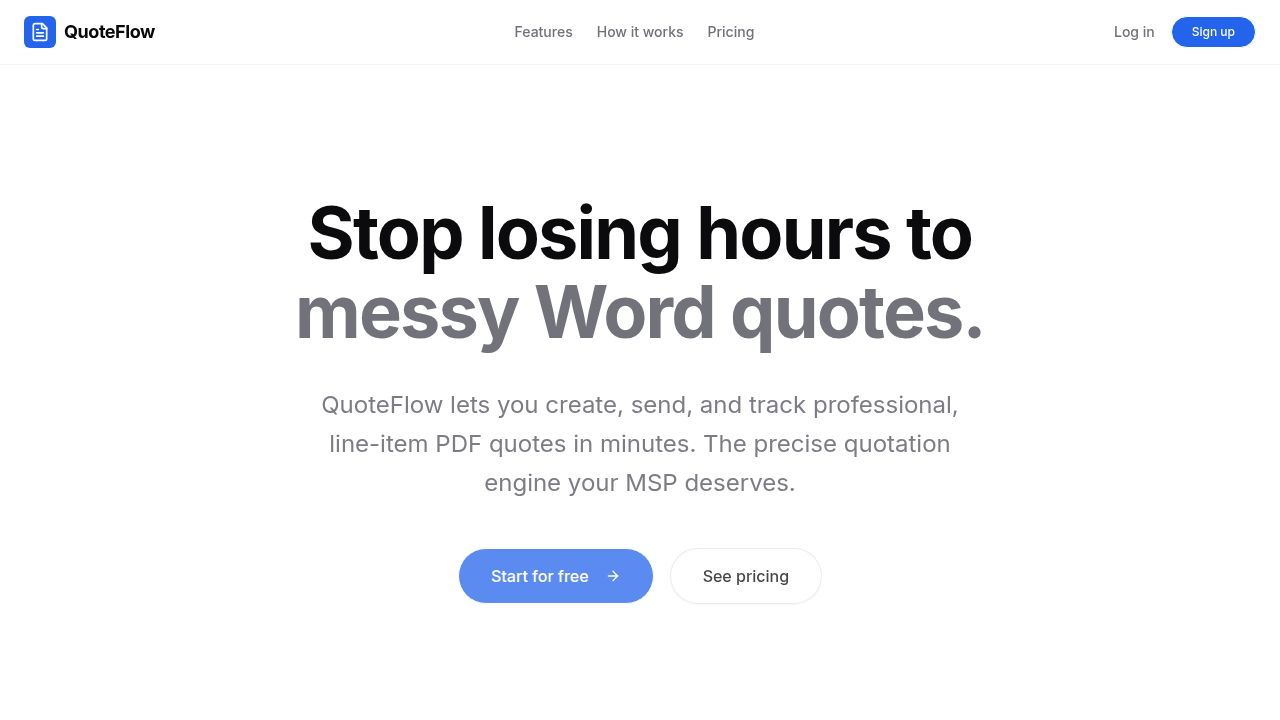
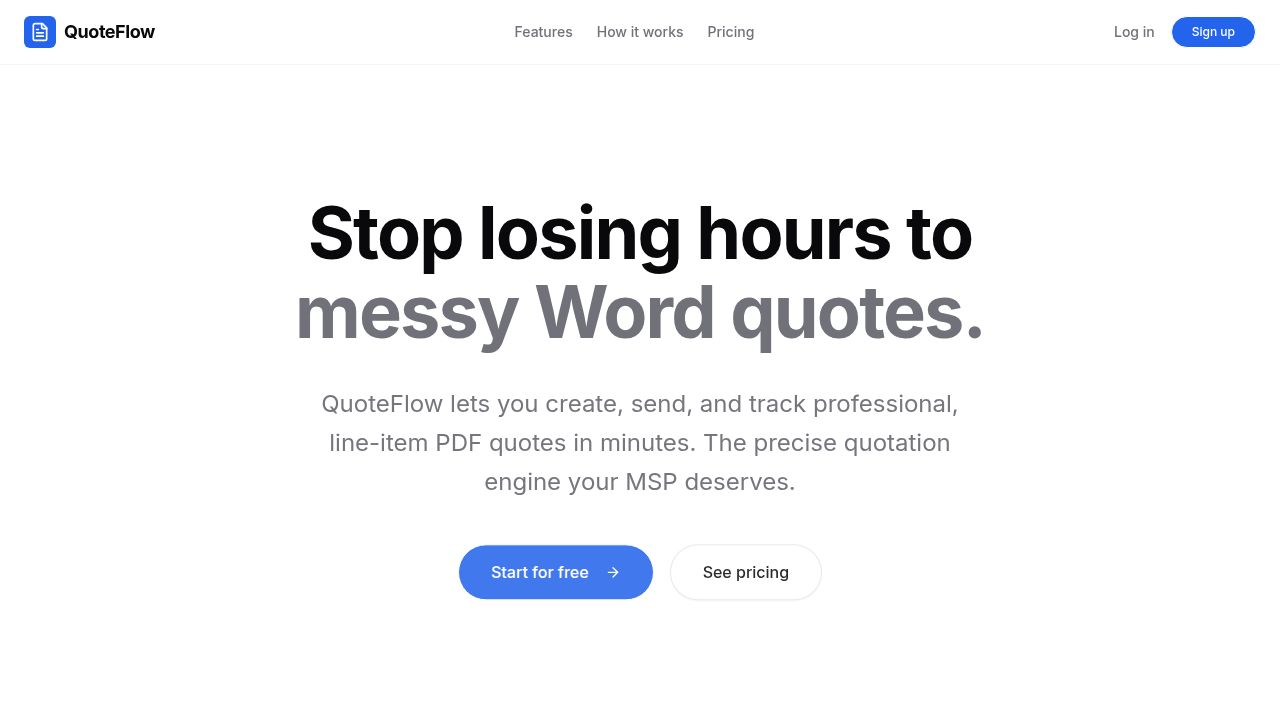
feat(task-15): Add SKU / product code to line items
Original task: Add an optional SKU field to quotation line items so IT service
providers can reference catalog part numbers, software license codes, or hardware
model numbers directly on a quote.

Changes made:
- lib/db/src/schema/quotations.ts: Added nullable `sku text` column to lineItemsTable
- lib/db: Applied schema change via `drizzle-kit push` (column added to live DB)
- lib/db: Rebuilt TypeScript declarations (dist/) to pick up new inferred type
- artifacts/api-server/src/lib/validation.ts: Added optional `sku` (max 100 chars) to lineItemSchema
- artifacts/api-server/src/routes/quotations.ts: Passed `sku` through in create, update, and duplicate handlers
- artifacts/api-server/src/lib/pdf/render.ts: Added `sku` to local LineItem type
- artifacts/api-server/src/lib/pdf/templates/types.ts: Added `sku?` to TemplateLineItem
- artifacts/api-server/src/lib/pdf/templates/modern.tsx: Renders "SKU: <code>" in 8pt muted text below description when present
- artifacts/api-server/src/lib/pdf/templates/classic.tsx: Same SKU rendering for classic template
- lib/api-client-react/src/generated/api.schemas.ts: Added `sku?` to LineItem and LineItemInput interfaces
- lib/api-client-react: Rebuilt TypeScript declarations
- artifacts/dashboard/src/pages/quotations/QuotationFormPage.tsx: Added small SKU input (h-6, xs text) below description in each line item row; preserved on edit load
[…]

diff --git a/artifacts/dashboard/src/pages/quotations/QuotationFormPage.tsx b/artifacts/dashboard/src/pages/quotations/QuotationFormPage.tsx
@@ -68,6 +68,7 @@ const thirtyDays = () => {
 };
 
 const emptyLineItem = (): LineItemInput => ({
+  sku: null,
   description: "",
   quantity: 1,
   unit: "hours",
@@ -134,6 +135,7 @@ export default function QuotationFormPage() {
     if (existing.lineItems && existing.lineItems.length > 0) {
       setLineItems(
         existing.lineItems.map((li, idx) => ({
+          sku: li.sku ?? null,
           description: li.description,
           quantity: parseFloat(li.quantity),
           unit: li.unit as LineItemInput["unit"],
@@ -321,13 +323,22 @@ export default function QuotationFormPage() {
             const rowTotal = (Number(li.quantity) || 0) * (Number(li.unitPrice) || 0);
             return (
               <div key={idx} className="grid grid-cols-[2.5fr_0.7fr_0.7fr_1fr_1fr_auto] gap-2 px-5 py-2.5 border-b border-slate-800/30 last:border-0 items-center">
-                <Input
-                  value={li.description}
-                  onChange={(e) => updateLineItem(idx, "description", e.target.value)}
-                  placeholder="Description..."
-                  className={`${inputCls} h-8 text-sm`}
-                  data-testid={`line-item-description-${idx}`}
-                />
+                <div className="flex flex-col gap-1">
+                  <Input
+                    value={li.description}
+                    onChange={(e) => updateLineItem(idx, "description", e.target.value)}
+                    placeholder="Description..."
+                    className={`${inputCls} h-8 text-sm`}
+                    data-testid={`line-item-description-${idx}`}
+                  />
+                  <Input
+                    value={li.sku ?? ""}
+                    onChange={(e) => updateLineItem(idx, "sku", e.target.value || null)}
+                    placeholder="SKU / Product code (optional)"
+                    className={`${inputCls} h-6 text-xs`}
+                    data-testid={`line-item-sku-${idx}`}
+                  />
+                </div>
                 <Input
                   type="number"
                   min={0}

diff --git a/artifacts/api-server/src/lib/pdf/templates/classic.tsx b/artifacts/api-server/src/lib/pdf/templates/classic.tsx
@@ -289,7 +289,14 @@ export function ClassicTemplate({
           </View>
           {quote.lineItems.map((li) => (
             <View key={li.id} style={s.tr} wrap={false}>
-              <Text style={s.cDesc}>{li.description}</Text>
+              <View style={s.cDesc}>
+                <Text>{li.description}</Text>
+                {li.sku ? (
+                  <Text style={{ fontSize: 8, color: C.muted, marginTop: 2 }}>
+                    SKU: {li.sku}
+                  </Text>
+                ) : null}
+              </View>
               <Text style={s.cQty}>{Number(li.quantity).toFixed(2)}</Text>
               <Text style={s.cUnit}>{li.unit}</Text>
               <Text style={s.cPrice}>{fmtMoney(li.unitPrice, cur)}</Text>

diff --git a/artifacts/api-server/src/lib/pdf/templates/modern.tsx b/artifacts/api-server/src/lib/pdf/templates/modern.tsx
@@ -307,7 +307,14 @@ export function ModernTemplate({
           </View>
           {quote.lineItems.map((li, idx) => (
             <View key={li.id} style={idx % 2 === 0 ? s.tr : s.trAlt} wrap={false}>
-              <Text style={s.cDesc}>{li.description}</Text>
+              <View style={s.cDesc}>
+                <Text>{li.description}</Text>
+                {li.sku ? (
+                  <Text style={{ fontSize: 8, color: C.muted, marginTop: 2 }}>
+                    SKU: {li.sku}
+                  </Text>
+                ) : null}
+              </View>
               <Text style={s.cQty}>{Number(li.quantity).toFixed(2)}</Text>
               <Text style={s.cUnit}>{li.unit}</Text>
               <Text style={s.cPrice}>{fmtMoney(li.unitPrice, cur)}</Text>

diff --git a/artifacts/dashboard/src/pages/quotations/QuotationDetailPage.tsx b/artifacts/dashboard/src/pages/quotations/QuotationDetailPage.tsx
@@ -249,7 +249,12 @@ export default function QuotationDetailPage() {
             key={item.id}
             className="grid grid-cols-[3fr_1fr_1fr_1fr_1fr] px-5 py-3 border-b border-slate-800/30 last:border-0"
           >
-            <span className="text-white text-sm">{item.description}</span>
+            <div>
+              <span className="text-white text-sm">{item.description}</span>
+              {item.sku && (
+                <p className="text-slate-500 text-xs mt-0.5">SKU: {item.sku}</p>
+              )}
+            </div>
             <span className="text-slate-300 text-sm">{item.quantity}</span>
             <span className="text-slate-400 text-sm">{item.unit}</span>
             <span className="text-slate-300 text-sm">

diff --git a/artifacts/api-server/src/routes/quotations.ts b/artifacts/api-server/src/routes/quotations.ts
@@ -141,6 +141,7 @@ router.post("/quotations", requireAuth, async (req, res): Promise<void> => {
           data.lineItems.map((li, i) => ({
             id: generateId(),
             quotationId: id,
+            sku: li.sku ?? null,
             description: li.description,
             quantity: String(li.quantity),
             unit: li.unit,
@@ -213,6 +214,7 @@ router.put("/quotations/:id", requireAuth, async (req, res): Promise<void> => {
           data.lineItems.map((li, i) => ({
             id: generateId(),
             quotationId: String(req.params.id),
+            sku: li.sku ?? null,
             description: li.description,
             quantity: String(li.quantity),
             unit: li.unit,
@@ -344,6 +346,7 @@ router.post("/quotations/:id/duplicate", requireAuth, async (req, res): Promise<
           srcLines.map((li) => ({
             id: generateId(),
             quotationId: newId,
+            sku: li.sku ?? null,
             description: li.description,
             quantity: li.quantity,
             unit: li.unit,

diff --git a/artifacts/api-server/src/lib/pdf/render.ts b/artifacts/api-server/src/lib/pdf/render.ts
@@ -9,6 +9,7 @@ import { ObjectStorageService } from "../objectStorage";
 
 type LineItem = {
   id: string;
+  sku?: string | null;
   description: string;
   quantity: string;
   unit: string;

diff --git a/artifacts/api-server/src/lib/pdf/templates/types.ts b/artifacts/api-server/src/lib/pdf/templates/types.ts
@@ -1,5 +1,6 @@
 export type TemplateLineItem = {
   id: string;
+  sku?: string | null;
   description: string;
   quantity: string;
   unit: string;

diff --git a/artifacts/api-server/src/lib/validation.ts b/artifacts/api-server/src/lib/validation.ts
@@ -2,6 +2,7 @@ import { z } from "zod";
 
 export const lineItemSchema = z.object({
   id: z.string().optional(),
+  sku: z.string().max(100).optional().nullable(),
   description: z.string().min(1, "Description required").max(2000),
   quantity: z.coerce.number().positive("Quantity must be > 0"),
   unit: z.enum(["hours", "days", "fixed"]).default("hours"),

diff --git a/lib/db/src/schema/quotations.ts b/lib/db/src/schema/quotations.ts
@@ -67,6 +67,7 @@ export const lineItemsTable = pgTable(
     quotationId: text("quotation_id")
       .notNull()
       .references(() => quotationsTable.id, { onDelete: "cascade" }),
+    sku: text("sku"),
     description: text("description").notNull(),
     quantity: numeric("quantity", { precision: 10, scale: 2 }).notNull(),
     unit: text("unit").notNull().default("hours"),